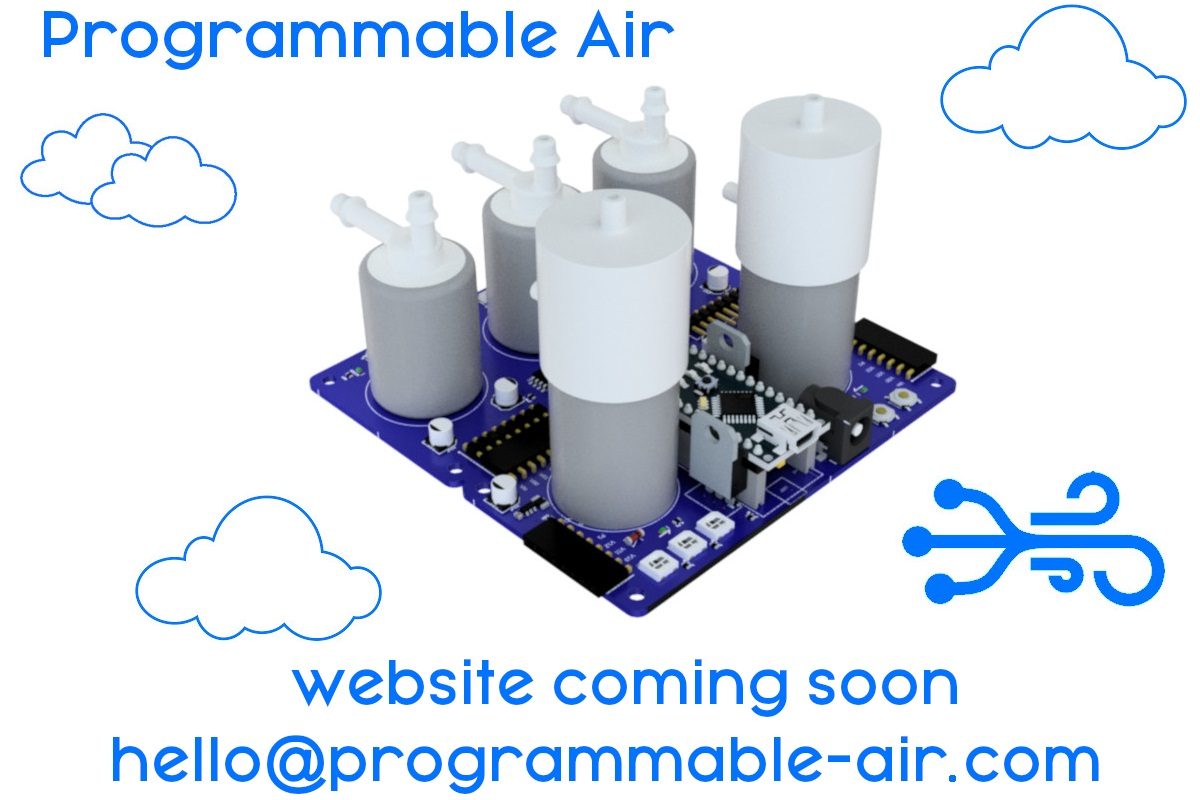
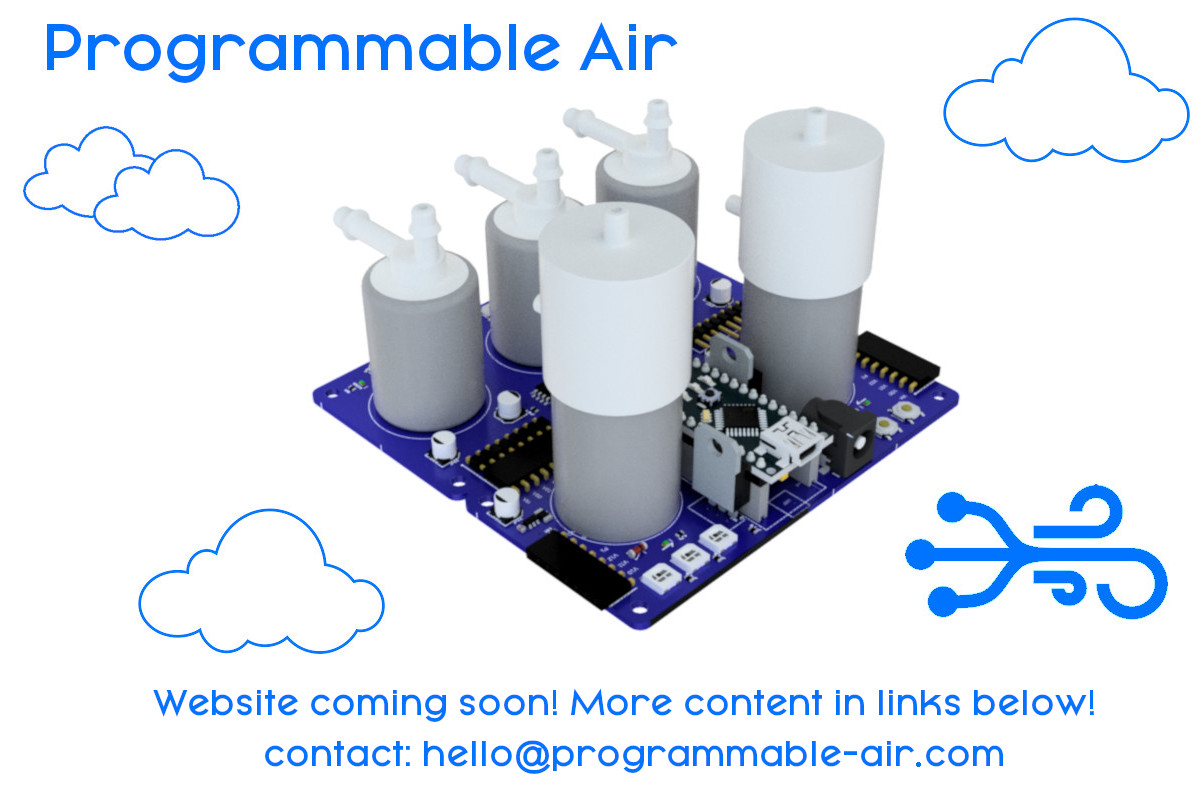
Added links to github, hackaday, portfolio

diff --git a/style.css b/style.css
@@ -1,51 +1,5 @@
-.infoBox{
-	position:relative;
-	color:#6e6362;
-	font-weight:bold;	
+.centered_large {
+    display: inline-block;
+    width: 100%; // Show 4 images in a row normally
+    height: auto;
 }
-
-.largeCentered {
-	font-size: 350%;	
-	text-align: center;
-	position: fixed; /* or absolute */
-	top: 75%;
-	/*left: 75%;*/
-	right: 75%;
-	/* bring your own prefixes */
-	transform: translate(+50%, -50%);
-}
-
-.centered {
-	font-size: 250%;	
-	text-align: center;
-	position: fixed; /* or absolute */
-	top: 50%;
-	left: 50%;
-	/* bring your own prefixes */
-	transform: translate(-50%, -50%);
-}
-
-#box_1 { 
-	position: absolute; 
-	top: 10px; 
-	right: 10px; 
-	bottom: 10px; 
-	left: 10px; 
-	background: #f1036a; 
-	z-index: -1;
-}
-
-#box_2 { 
-	position: absolute; 
-	top: 20px; 
-	right: 20px; 
-	bottom: 20px; 
-	left: 20px; 
-	background: #f5f9e9; 
-	z-index: -1;
-}
-
-
-/* #f1036a */
-/* #1d2021 */
-/* #6e6362 */

diff --git a/index.html b/index.html
@@ -7,8 +7,18 @@
 		<link rel="stylesheet" type="text/css" href="style.css" />
 	</head>
 	<body>
-			<div class="centered">
-				<img src="./assets/Programmable Air PCB Render.jpg" alt="Programmable Air">
-			</div>
+   		<img class = "centered_large" src="./assets/Programmable Air PCB Render.jpg" alt="Programmable Air">
+
+			<a href="https://www.github.com/tinkrmind/programmable-air">
+				<img src="./assets/github.png" alt="GitHub" align="left" width="34%" height="auto" border="0">
+			</a>
+
+			<a href="https://hackaday.io/project/129278-programmable-air">
+				<img src="./assets/hackaday.png" alt="Hackaday" align="center" width="33%" height="auto" border="0">
+			</a>
+
+			<a href="https://tinkrmind.me/">
+				<img src="./assets/tinkrmind.png" alt="Portfolio" align="right" width="33%" height="auto" border="0">
+			</a>
 	</body>
 </html>
